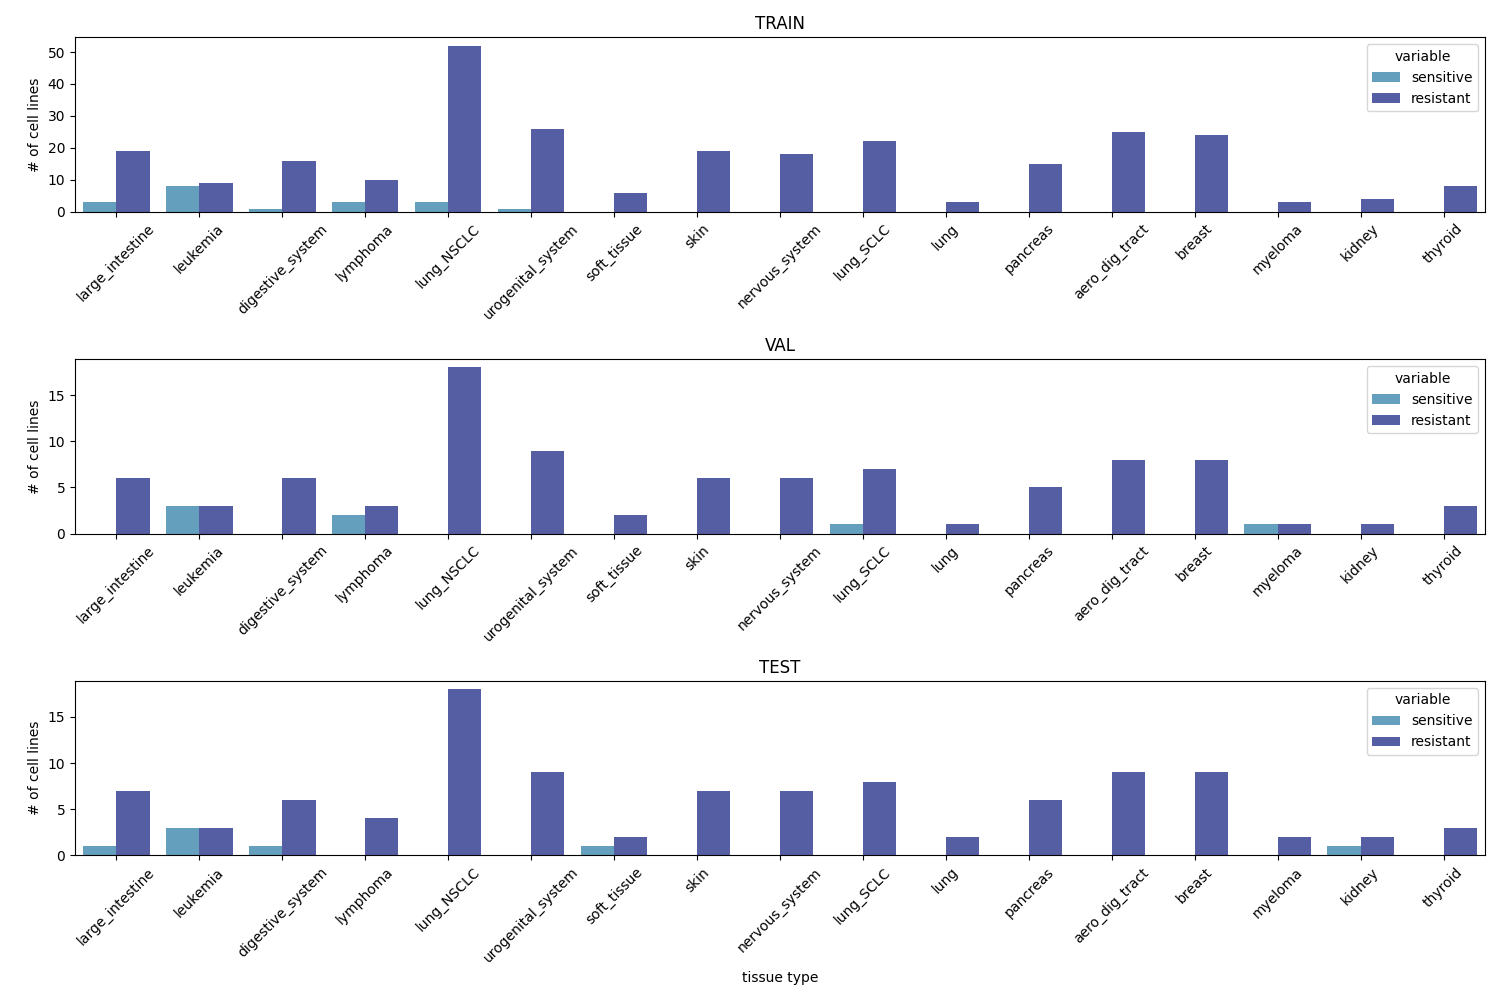
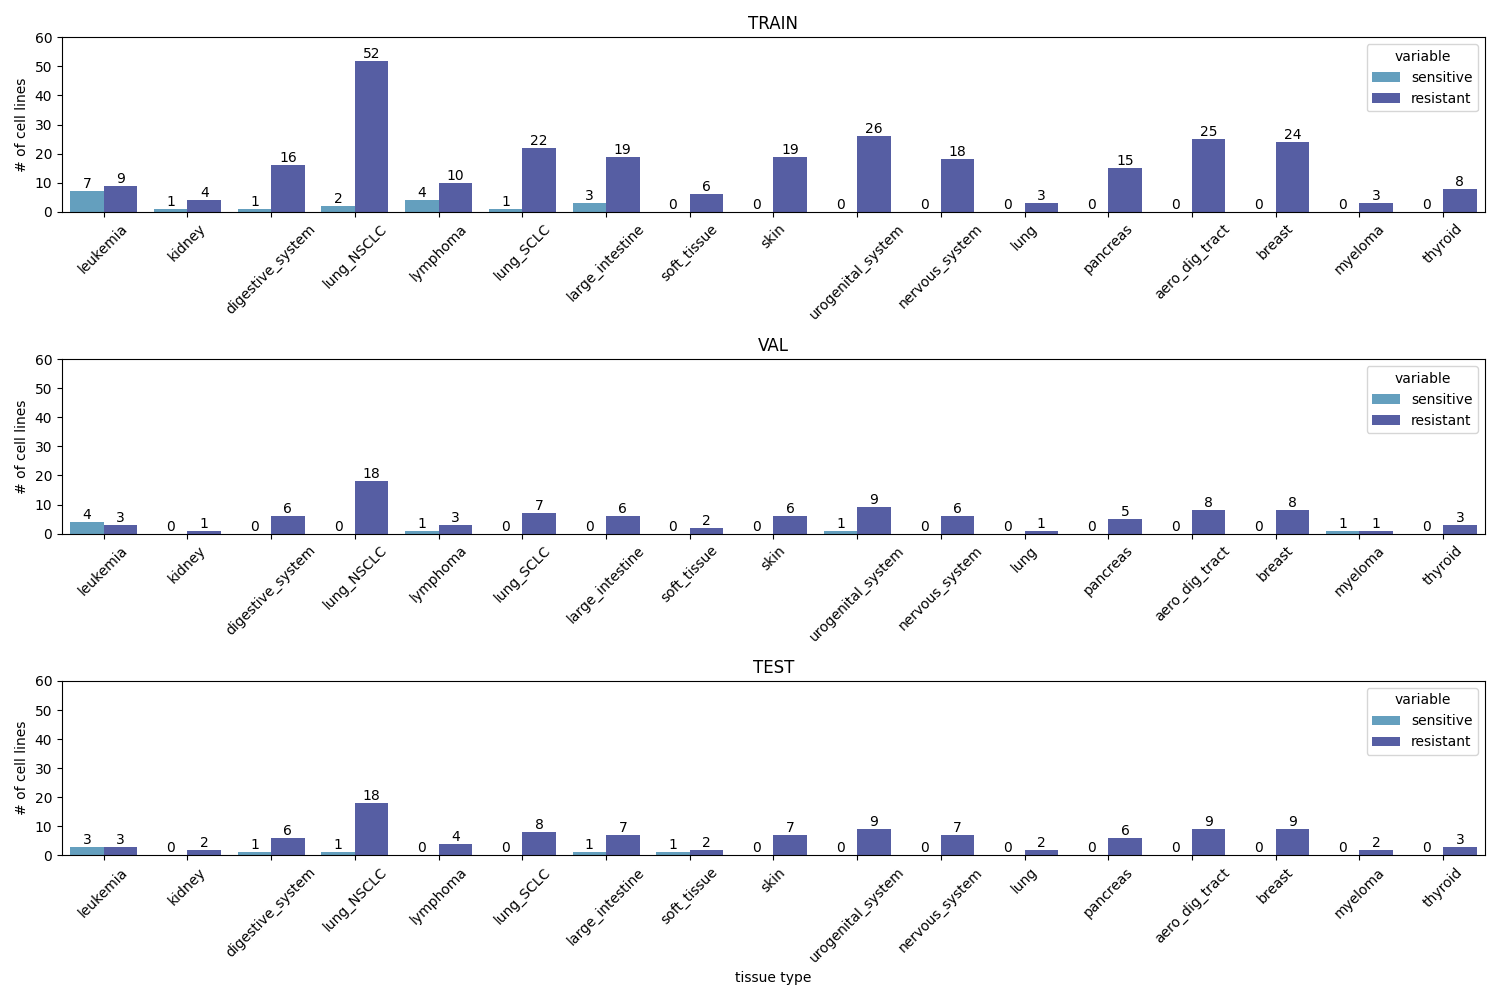
update data_split.png

diff --git a/src/mlquiades/main.py b/src/mlquiades/main.py
@@ -28,14 +28,14 @@ def params():
         '--c',
         type=str,
         action='store',
-        dest='ccle_file',
-        help='ccle data file (required)')
+        dest='tpm_filename',
+        help='tpm data filename (required)')
     parser.add_argument(
         '--d',
         type=str,
         action='store',
-        dest='drug_file', 
-        help='drug data file (required)')
+        dest='drug_filename', 
+        help='drug data filename (required)')
     parser.add_argument(
         '--e',
         type=float,
@@ -151,6 +151,20 @@ def params():
         action='store',
         dest='genes_gtf',
         help='filename for genes.gtf file (e.g. gencode.v19.genes.v7_model.patched_contigs.gtf) (required)')
+    parser.add_argument(
+        '--v',
+        type=bool,
+        action='store',
+        dest='isoforms', 
+        default=False,
+        help='use isoform data (optional)')
+    parser.add_argument(
+        '--w',
+        type=str,
+        action='store',
+        dest='isoforms_filename',
+        help='filename for file containing isoforms (not optional if isoforms==True)')
+
     return parser
 
 def main():
@@ -158,8 +172,8 @@ def main():
     args = parser.parse_args()
     data_dir = args.data_dir + '/'
     output_dir = args.output_folder_name
-    ccle_file = args.ccle_file
-    drug_file = args.drug_file
+    tpm_filename = args.tpm_filename
+    drug_filename = args.drug_filename
     ic50_cutoff_value = args.ic50_cutoff_value
     ros = args.ros
     step_size_nodes = args.step_size_nodes
@@ -176,6 +190,8 @@ def main():
     cdk4_6_filename = args.cdk4_6_genes_filename
     cancer_genes_filename = args.cancer_genes_filename
     genes_gtf = args.genes_gtf
+    isoforms = args.isoforms
+    isoforms_filename = args.isoforms_filename
     
     if feature_selection is None:
         raise TypeError('missing feature selection (option --r)')
@@ -187,6 +203,10 @@ def main():
     if feature_selection == 'cdk4_6_cancer_genes':
         if cancer_genes_filename is None:
             raise TypeError('missing cancer_genes_filename (option --t)')
+    if isoforms:
+        if isoforms_filename is None:
+            raise TypeError('missing isoforms_filename (option --w)')
+            
 
     if not os.path.isdir(output_dir):
         os.mkdir(output_dir)
@@ -201,7 +221,7 @@ def main():
     
     print('....... Reading in data .......')
     df, y_labels = read_in_data_new(
-        data_dir, ccle_file, drug_file, ic50_cutoff_value, genes_gtf)
+        data_dir, tpm_filename, drug_filename, genes_gtf, ic50_cutoff_value, isoforms)
     print('....... Splitting and scaling data .......')
     X_train_ros, y_train_ros, X_val_, y_val_, X_test, y_test, metadata = split_scale_data(
         data_dir=data_dir, output_dir=output_dir, df=df, y_labels=y_labels, ros=ros,
@@ -217,7 +237,7 @@ def main():
         X_train_ros, y_train_ros, X_test, y_test, output_dir, feature_selection, metadata)
     ridge = ridge_classifier(
         X_train_ros, y_train_ros, X_test, y_test, output_dir, feature_selection, metadata)
-    evaluation_df = pd.concat([nn_hb, rf, ridge]) #dt, gbdt, nn
+    evaluation_df = pd.concat([nn_hb, rf, ridge])
     
     print('....... Generating evaluation reports .......')
     plot_combined_rocauc(evaluation_df, feature_selection, output_dir)

diff --git a/src/mlquiades/utils/processing.py b/src/mlquiades/utils/processing.py
@@ -108,12 +108,7 @@ def split_scale_data(
     y_train_ = pd.concat([y_train_sensitive, y_train_resistant])
     y_val_ = pd.concat([y_val_sensitive, y_val_resistant])
     y_test = pd.concat([y_test_sensitive, y_test_resistant])
-    
-    # X_train_, X_valtest, y_train_, y_valtest = train_test_split(df, y_labels,
-    #                                                             test_size=.4)
-    # X_val_, X_test, y_val_, y_test = train_test_split(X_valtest, y_valtest,
-    #                                                   test_size=.5)
-    
+        
     metadata_train = X_train_[['label', 'IC50', 'cell line', 'Tissue']]
     metadata_val = X_val_[['label', 'IC50', 'cell line', 'Tissue']]
     metadata_test = X_test[['label', 'IC50', 'cell line', 'Tissue']]
@@ -146,19 +141,31 @@ def split_scale_data(
     grouped = grouped.melt(id_vars=['train_val_test', 'tissue'], value_vars=['sensitive', 'resistant'])
 
     fig,ax = plt.subplots(3,1, figsize=(15,10))
-    p1 = sns.barplot(ax=ax[0], data=grouped[grouped['train_val_test']=='train'], x='tissue', y='value', hue='variable', palette=sns.color_palette('icefire'))
+    p1 = sns.barplot(ax=ax[0], data=grouped[grouped['train_val_test']=='train'], x='tissue', 
+                     y='value', hue='variable', palette=sns.color_palette('icefire'))
+    p1.bar_label(p1.containers[0])
+    p1.bar_label(p1.containers[1])
     p1.set_title('TRAIN')
     p1.set_xlabel('')
+    p1.set_ylim(top=60)
     p1.set_ylabel('# of cell lines')
     p1.set_xticklabels(p1.get_xticklabels(), rotation=45)
-    p2 = sns.barplot(ax=ax[1], data=grouped[grouped['train_val_test']=='val'], x='tissue', y='value', hue='variable', palette=sns.color_palette('icefire'))
+    p2 = sns.barplot(ax=ax[1], data=grouped[grouped['train_val_test']=='val'], x='tissue',
+                     y='value', hue='variable', palette=sns.color_palette('icefire'))
+    p2.bar_label(p2.containers[0])
+    p2.bar_label(p2.containers[1])
     p2.set_title('VAL')
     p2.set_xlabel('')
+    p2.set_ylim(top=60)
     p2.set_ylabel('# of cell lines')
     p2.set_xticklabels(p2.get_xticklabels(), rotation=45)
-    p3 = sns.barplot(ax=ax[2], data=grouped[grouped['train_val_test']=='test'], x='tissue', y='value', hue='variable', palette=sns.color_palette('icefire'))
+    p3 = sns.barplot(ax=ax[2], data=grouped[grouped['train_val_test']=='test'], x='tissue', 
+                     y='value', hue='variable', palette=sns.color_palette('icefire'))
+    p3.bar_label(p3.containers[0])
+    p3.bar_label(p3.containers[1])
     p3.set_title('TEST')
     p3.set_xlabel('tissue type')
+    p3.set_ylim(top=60)
     p3.set_ylabel('# of cell lines')
     p3.set_xticklabels(p3.get_xticklabels(), rotation=45)
     plt.tight_layout()